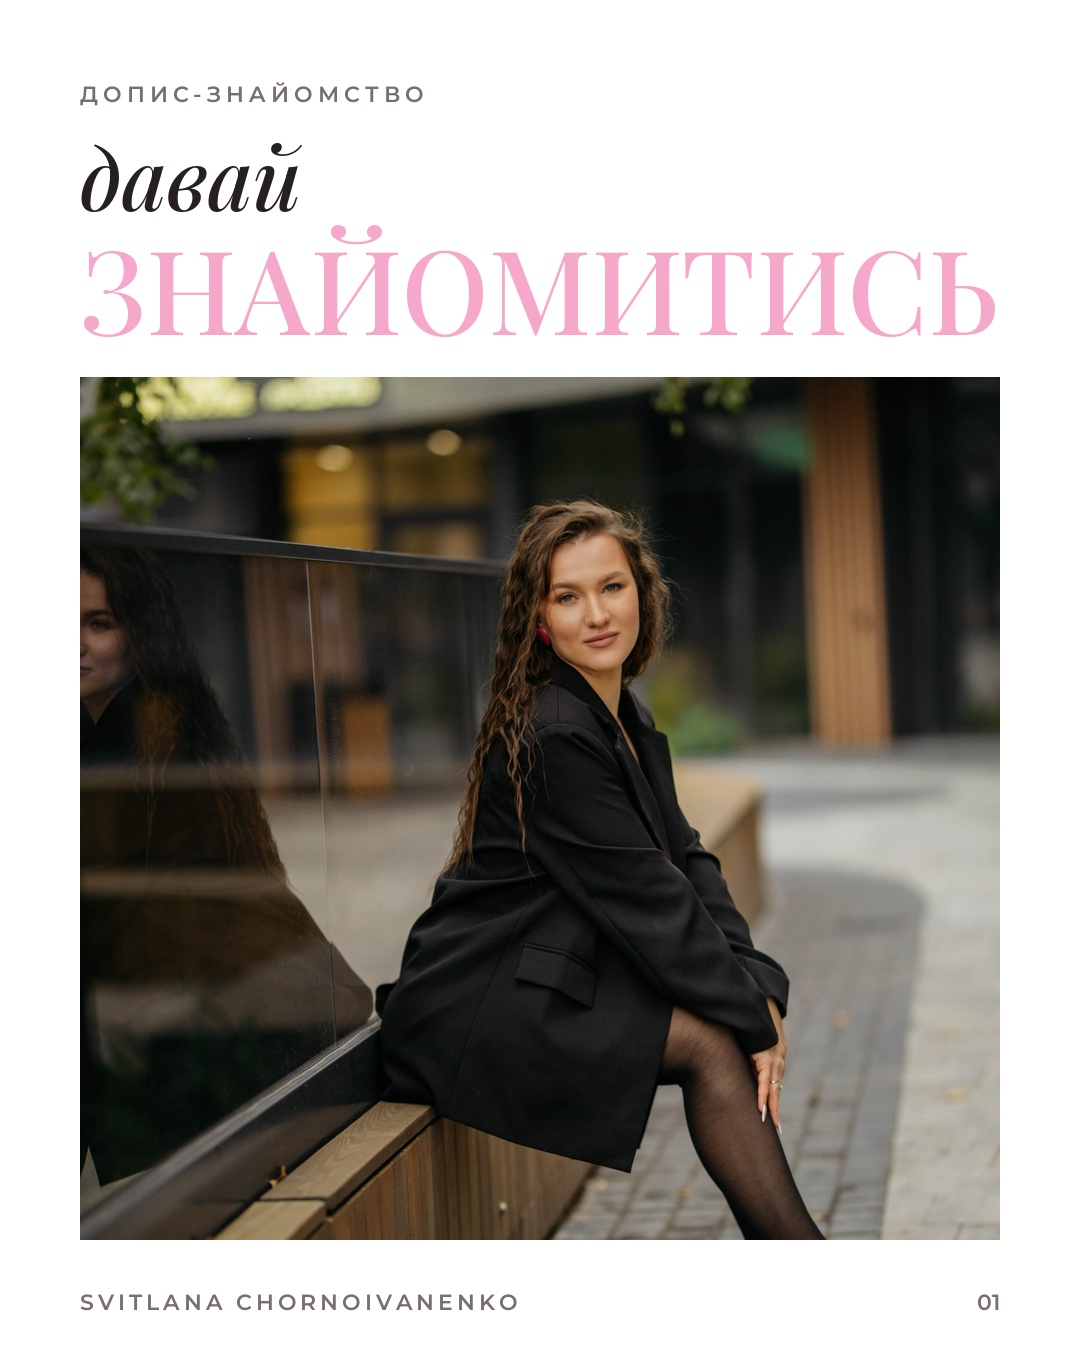
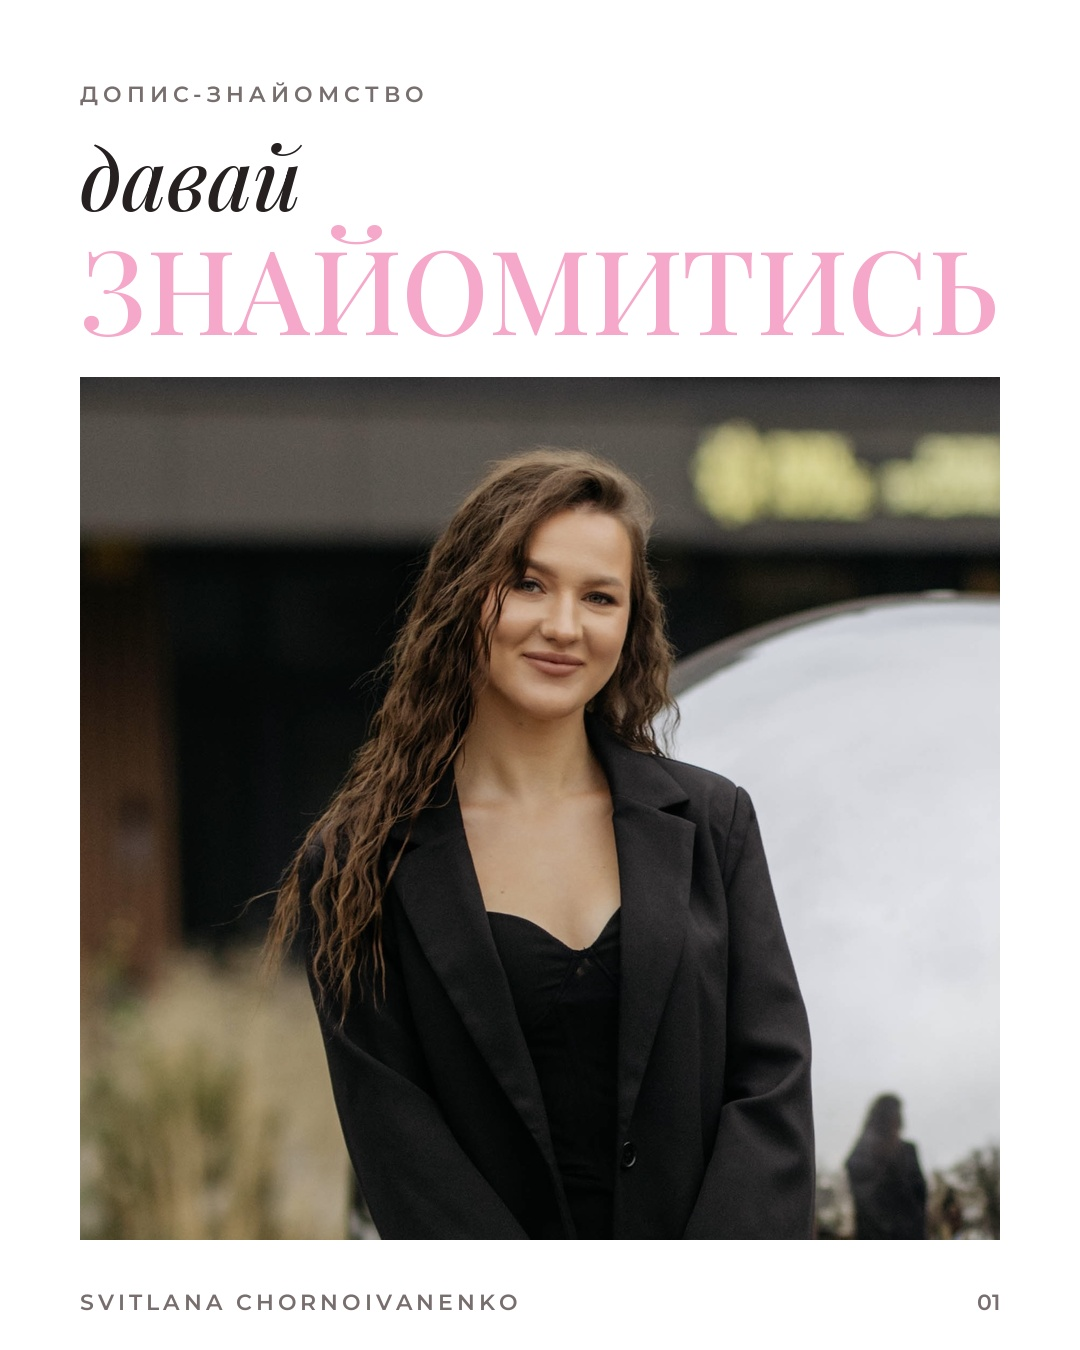
Intro carousel: new cover photo
Claude-Session: https://claude.ai/code/session_0191xVL2hi5vHUvM1ix6pauC

diff --git a/karusel_znaiomstvo/build.py b/karusel_znaiomstvo/build.py
@@ -48,7 +48,7 @@ while True:
     sz -= 2
 d.text((80 - bb[0], 225 - bb[1]), 'ЗНАЙОМИТИСЬ', font=big, fill=LPINK)
 y0 = 225 + (bb[3] - bb[1]) + 40
-tile(c, Image.open(f'{U}/4f848dd6-image.jpg').convert('RGB'), 80, y0, 920, H - 110 - y0, 0.5, 0.32)
+tile(c, Image.open(f'{U}/30c4616a-image.jpg').convert('RGB'), 80, y0, 920, H - 110 - y0, 0.5, 0.22)
 d = ImageDraw.Draw(c); foot(d, 1); c.save(f'{OUT}/01.jpg', quality=95)
 
 # ---------- 2 who ----------
